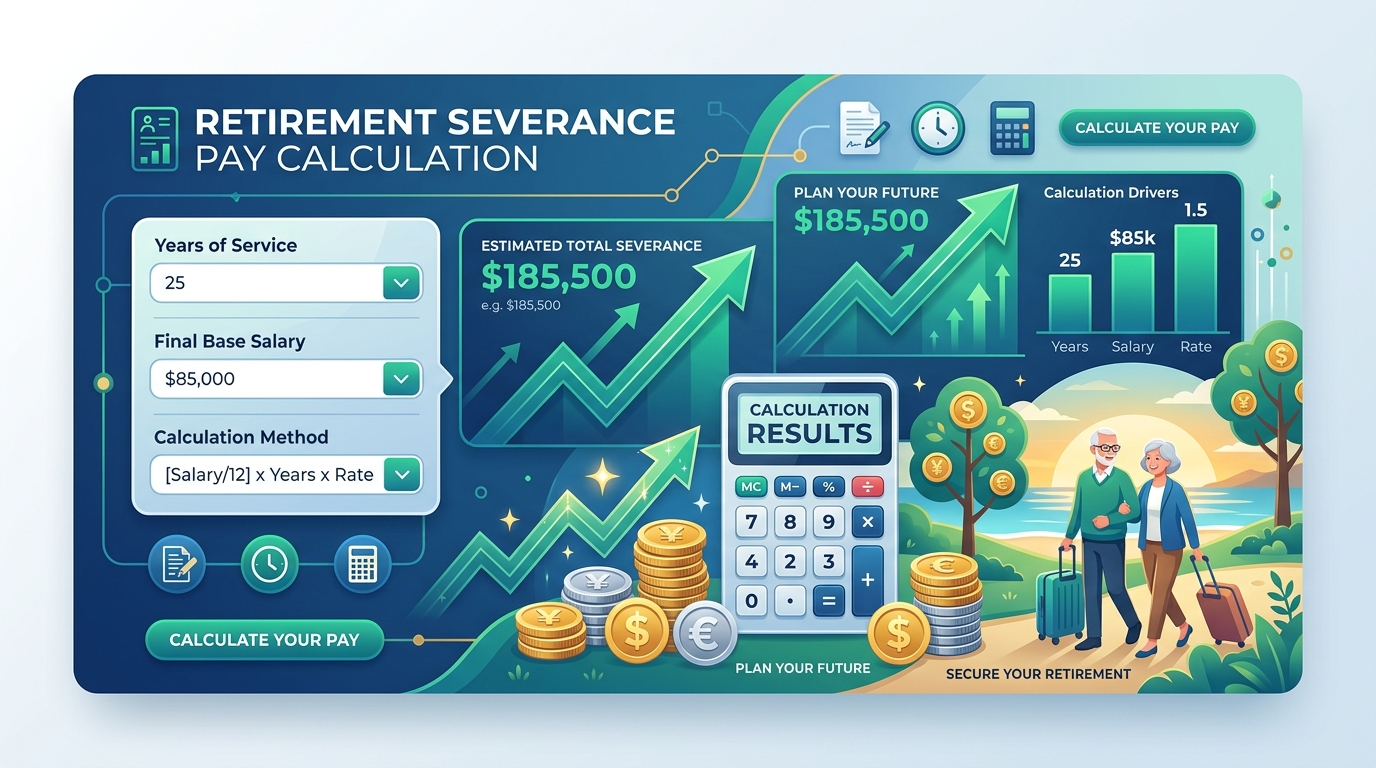
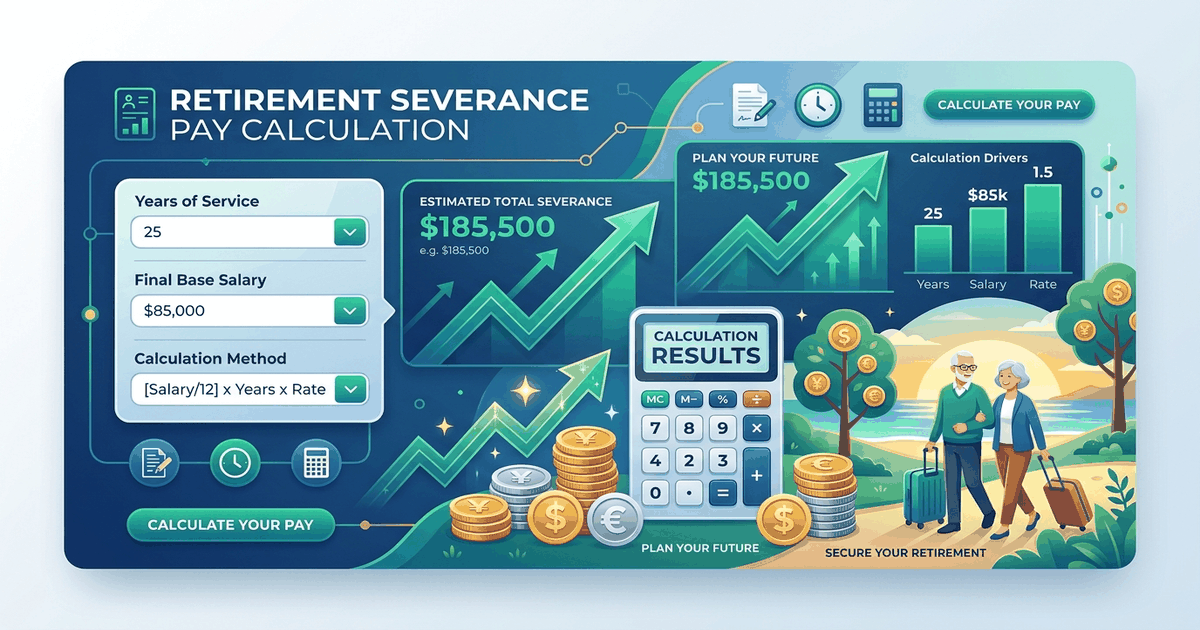
feat(social): optimize og-image (1200x630) and synchronize Open Graph & Twitter Card tags

diff --git a/index.html b/index.html
@@ -101,7 +101,6 @@
 </header>
 <!-- 상단 슬림 띠배너 (헤더 직하단: 50~60px 슬림형) -->
 <div class="manual-ad-box ad-top-banner" style="width: 100%; max-width: 960px; margin: 8px auto 16px; text-align: center;">
-
 <ins class="adsbygoogle" data-ad-client="ca-pub-2228289204702106" data-ad-format="horizontal" data-ad-slot="3824727725" data-full-width-responsive="true" style="display:inline-block;width:100%;height:60px;"></ins>
 <script>(adsbygoogle = window.adsbygoogle || []).push({});</script>
 </div>
@@ -332,40 +331,37 @@
 <!-- Google AdSense Slot 2 (Bottom: Below FAQ) -->
 </main>
 <!-- Footer -->
-
 <!-- 🔗 연관 유틸리티 도구 추천 카드 (사용자 체류시간 증가 & SEO 내부 링크) -->
 <section class="max-w-4xl mx-auto my-8 px-4">
-  <div class="bg-slate-50 dark:bg-slate-900/60 border border-slate-200 dark:border-slate-800 rounded-2xl p-6 shadow-sm">
-    <h3 class="text-base font-black text-slate-900 dark:text-white mb-4 flex items-center gap-2">
-      <span>💡</span> 함께 많이 활용하는 필수 계산기 & 도구
+<div class="bg-slate-50 dark:bg-slate-900/60 border border-slate-200 dark:border-slate-800 rounded-2xl p-6 shadow-sm">
+<h3 class="text-base font-black text-slate-900 dark:text-white mb-4 flex items-center gap-2">
+<span>💡</span> 함께 많이 활용하는 필수 계산기 &amp; 도구
     </h3>
-    <div class="grid grid-cols-1 sm:grid-cols-3 gap-3.5">
-      
-      <a href="https://overtime.enjoy-onepage.com/" class="p-4 bg-white dark:bg-slate-800 rounded-xl border border-slate-200 dark:border-slate-700 hover:border-blue-500 hover:shadow-md transition flex items-center justify-between group">
-        <div>
-          <div class="text-xs text-blue-600 dark:text-blue-400 font-bold mb-1">추천 유틸리티</div>
-          <div class="text-sm font-black text-slate-800 dark:text-slate-100 group-hover:text-blue-600 transition">야근·휴일수당 계산기</div>
-        </div>
-        <span class="text-slate-400 group-hover:translate-x-1 transition font-bold">→</span>
-      </a>
-      <a href="https://unemployed.enjoy-onepage.com/" class="p-4 bg-white dark:bg-slate-800 rounded-xl border border-slate-200 dark:border-slate-700 hover:border-blue-500 hover:shadow-md transition flex items-center justify-between group">
-        <div>
-          <div class="text-xs text-blue-600 dark:text-blue-400 font-bold mb-1">추천 유틸리티</div>
-          <div class="text-sm font-black text-slate-800 dark:text-slate-100 group-hover:text-blue-600 transition">실업급여 모의계산기</div>
-        </div>
-        <span class="text-slate-400 group-hover:translate-x-1 transition font-bold">→</span>
-      </a>
-      <a href="https://calc-half-leave.enjoy-onepage.com/" class="p-4 bg-white dark:bg-slate-800 rounded-xl border border-slate-200 dark:border-slate-700 hover:border-blue-500 hover:shadow-md transition flex items-center justify-between group">
-        <div>
-          <div class="text-xs text-blue-600 dark:text-blue-400 font-bold mb-1">추천 유틸리티</div>
-          <div class="text-sm font-black text-slate-800 dark:text-slate-100 group-hover:text-blue-600 transition">반차·연차 시간 계산기</div>
-        </div>
-        <span class="text-slate-400 group-hover:translate-x-1 transition font-bold">→</span>
-      </a>
-    </div>
-  </div>
+<div class="grid grid-cols-1 sm:grid-cols-3 gap-3.5">
+<a class="p-4 bg-white dark:bg-slate-800 rounded-xl border border-slate-200 dark:border-slate-700 hover:border-blue-500 hover:shadow-md transition flex items-center justify-between group" href="https://overtime.enjoy-onepage.com/">
+<div>
+<div class="text-xs text-blue-600 dark:text-blue-400 font-bold mb-1">추천 유틸리티</div>
+<div class="text-sm font-black text-slate-800 dark:text-slate-100 group-hover:text-blue-600 transition">야근·휴일수당 계산기</div>
+</div>
+<span class="text-slate-400 group-hover:translate-x-1 transition font-bold">→</span>
+</a>
+<a class="p-4 bg-white dark:bg-slate-800 rounded-xl border border-slate-200 dark:border-slate-700 hover:border-blue-500 hover:shadow-md transition flex items-center justify-between group" href="https://unemployed.enjoy-onepage.com/">
+<div>
+<div class="text-xs text-blue-600 dark:text-blue-400 font-bold mb-1">추천 유틸리티</div>
+<div class="text-sm font-black text-slate-800 dark:text-slate-100 group-hover:text-blue-600 transition">실업급여 모의계산기</div>
+</div>
+<span class="text-slate-400 group-hover:translate-x-1 transition font-bold">→</span>
+</a>
+<a class="p-4 bg-white dark:bg-slate-800 rounded-xl border border-slate-200 dark:border-slate-700 hover:border-blue-500 hover:shadow-md transition flex items-center justify-between group" href="https://calc-half-leave.enjoy-onepage.com/">
+<div>
+<div class="text-xs text-blue-600 dark:text-blue-400 font-bold mb-1">추천 유틸리티</div>
+<div class="text-sm font-black text-slate-800 dark:text-slate-100 group-hover:text-blue-600 transition">반차·연차 시간 계산기</div>
+</div>
+<span class="text-slate-400 group-hover:translate-x-1 transition font-bold">→</span>
+</a>
+</div>
+</div>
 </section>
-
 <footer class="bg-white border-t border-slate-200 mt-12 py-8 text-xs text-slate-500">
 <div class="max-w-4xl mx-auto px-4 space-y-4">
 <div class="flex flex-wrap items-center justify-between gap-4">
@@ -387,7 +383,6 @@
 </footer>
 <!-- 하단 대형 배너 (푸터 직전) -->
 <div class="manual-ad-box ad-bottom-banner" style="width: 100%; max-width: 960px; margin: 24px auto 16px; text-align: center;">
-
 <ins class="adsbygoogle" data-ad-client="ca-pub-2228289204702106" data-ad-format="auto" data-ad-slot="3416334507" data-full-width-responsive="true" style="display:block"></ins>
 <script>(adsbygoogle = window.adsbygoogle || []).push({});</script>
 </div>
